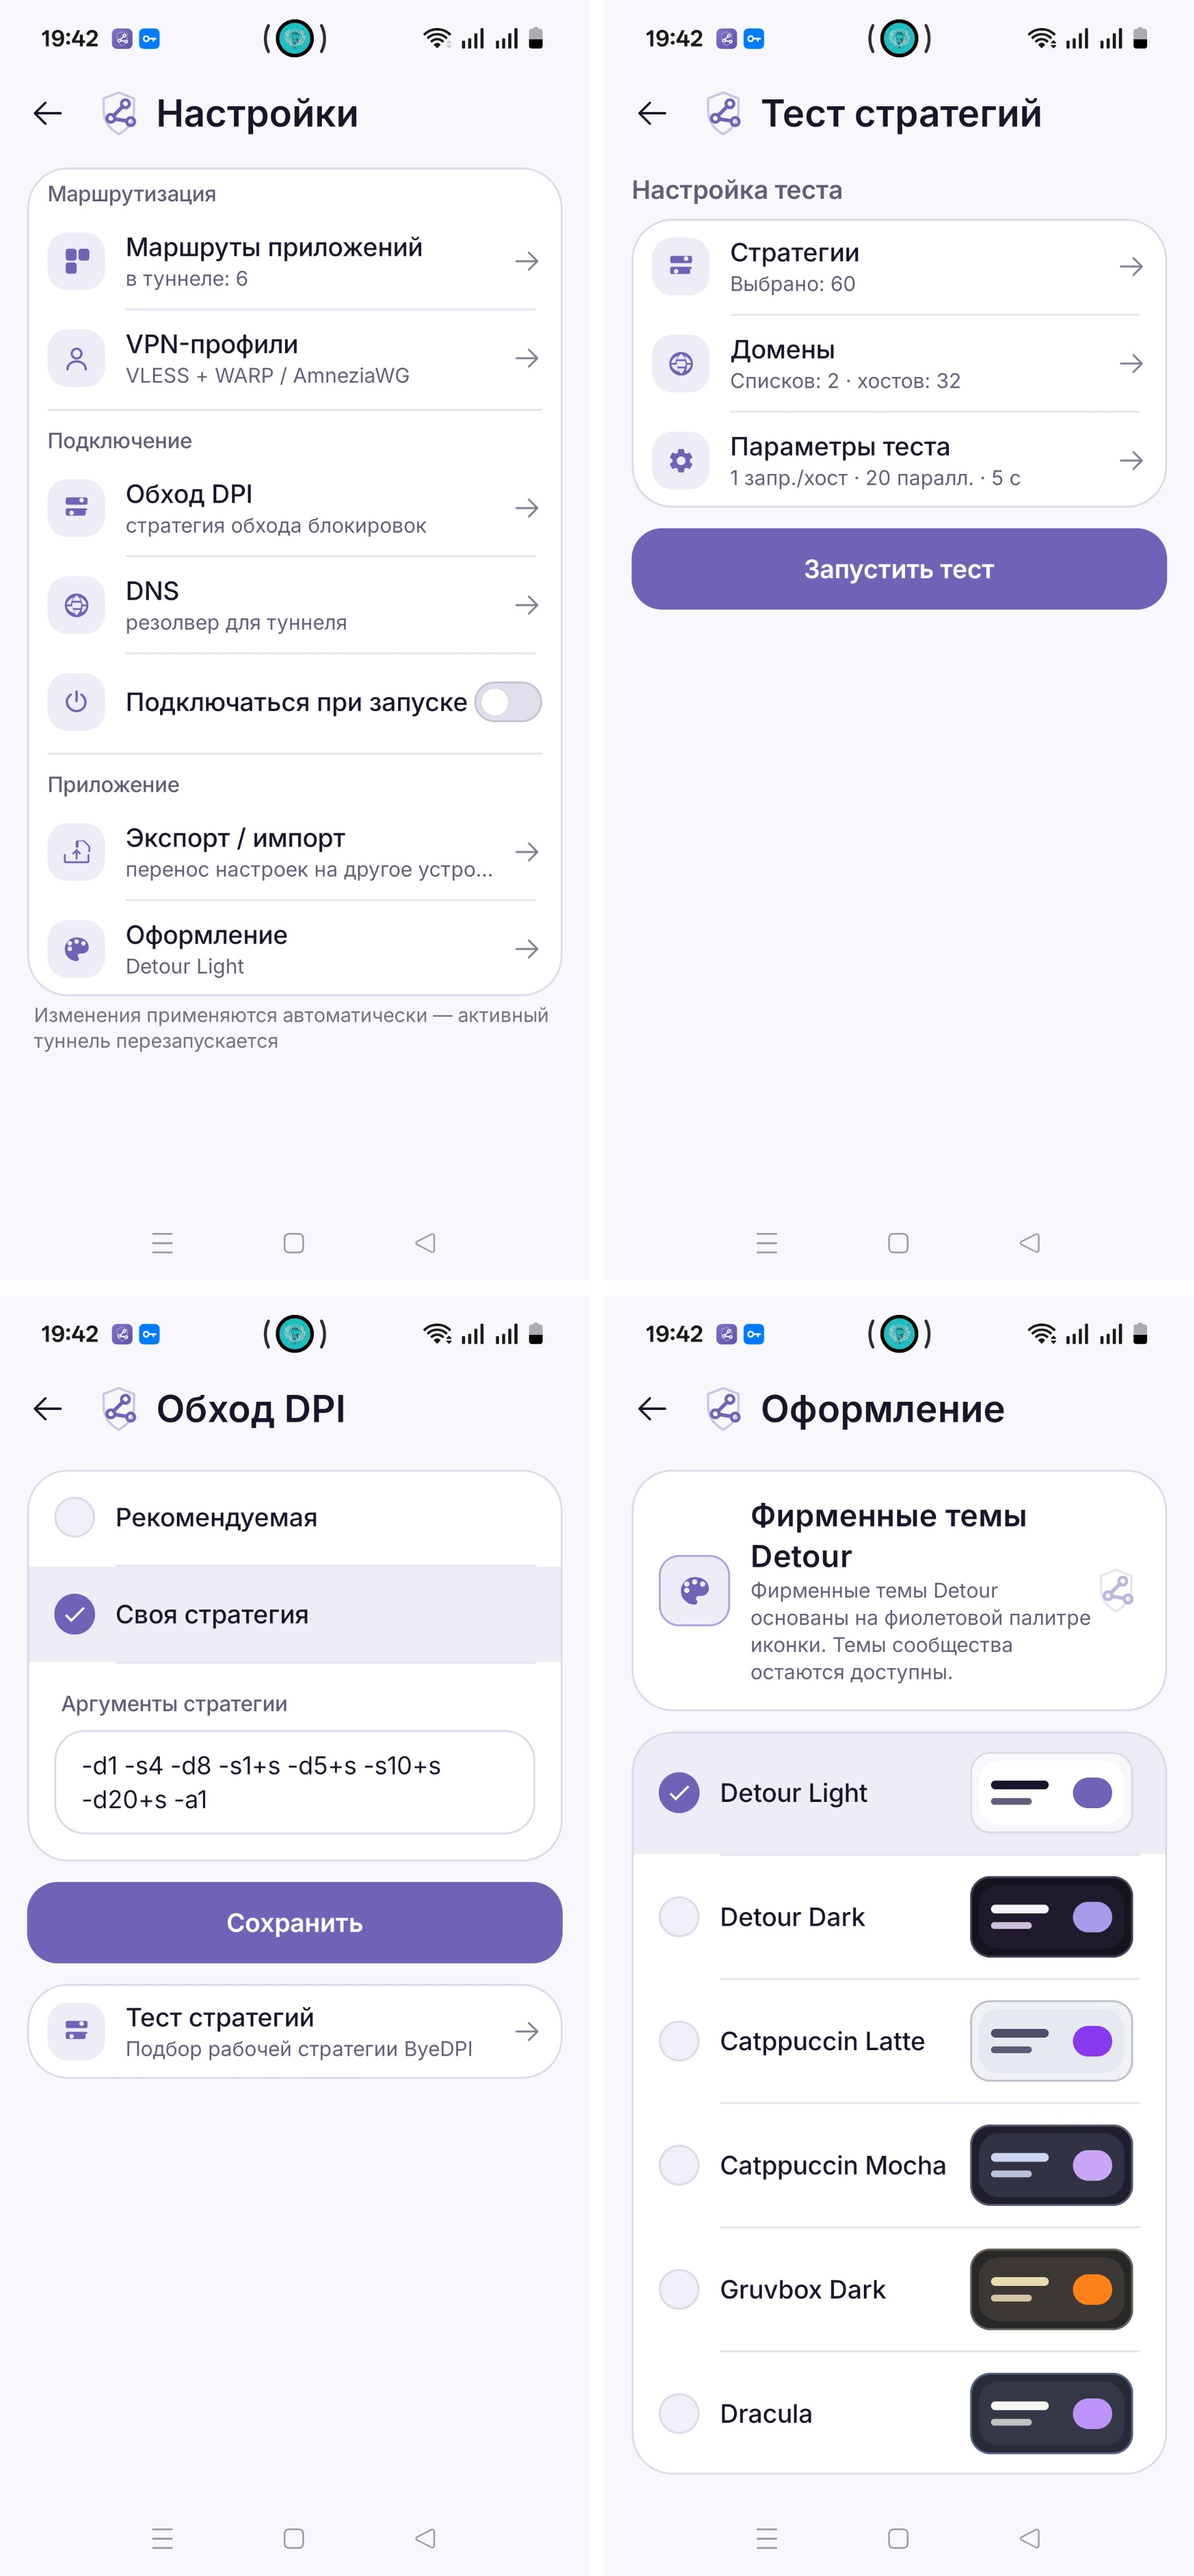
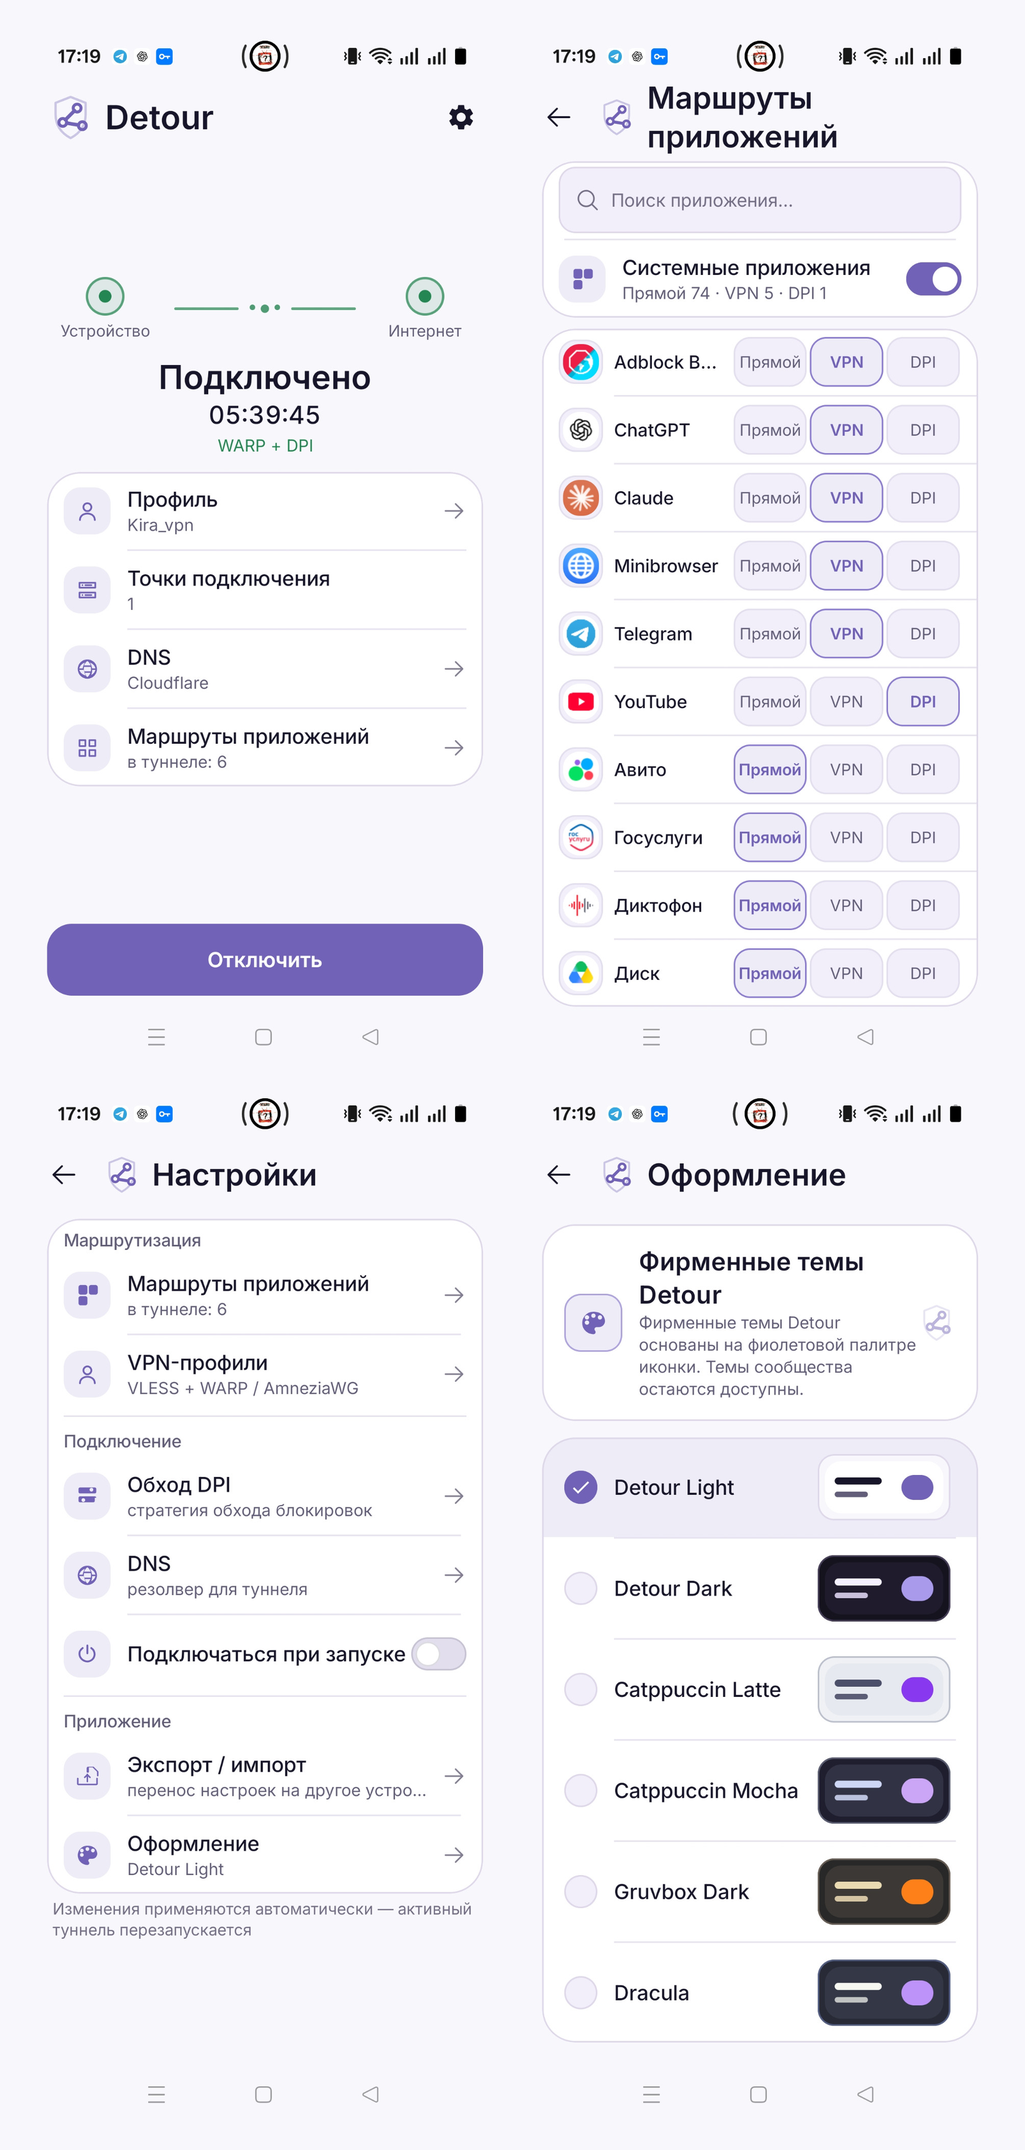
Show per-app routing in the product gallery
Promote the new four-screen real-device gallery to the README and Fastlane metadata, highlighting connected state, per-app Direct/VPN/DPI routing, settings and themes.

diff --git a/docs/screenshots.md b/docs/screenshots.md
@@ -4,12 +4,14 @@ The root README uses **real Detour captures from an Android device**. Product sc
 
 ## Current product gallery
 
-| File | What it shows |
-| --- | --- |
-| `settings.jpg` | Main settings and feature entry points |
-| `dns.jpg` | Tunnel DNS choices |
-| `dpi-bypass.jpg` | ByeDPI strategy configuration |
-| `appearance.jpg` | Detour and community theme choices |
+The primary README and Fastlane gallery is `product-gallery-hq.png`, a two-by-two montage assembled only from real device captures. It is ordered to explain the product from the main workflow outward:
+
+1. **Connected home** — active Detour tunnel and the main connection overview.
+2. **Per-app routes** — the core feature: different apps assigned to Direct, VPN or DPI routes.
+3. **Settings** — routing, VPN profiles, DPI bypass, DNS and application controls.
+4. **Themes** — Detour Light/Dark and the additional appearance choices.
+
+The existing individual captures such as `settings.jpg`, `dns.jpg`, `dpi-bypass.jpg` and `appearance.jpg` remain useful for feature documentation, but the landing-page gallery should prioritize the connected state and per-app routing.
 
 These are optimized copies of real device screenshots supplied for the project. They are not generated or reconstructed product mockups.
 
@@ -23,7 +25,7 @@ Public screenshots must not expose:
 - exported backup contents or personal notification content;
 - personal app inventory when it is not required to demonstrate a feature.
 
-For future screenshots of VPN profiles, subscriptions, servers or per-app routing, populate the **real app** with clearly synthetic demo data first, then capture the rendered UI. Do not redraw or fabricate the interface after capture.
+For screenshots of VPN profiles, subscriptions, servers or per-app routing, populate the **real app** with clearly synthetic demo data where practical, then capture the rendered UI. Do not redraw or fabricate the interface after capture. App inventory may be visible when it is necessary to demonstrate per-app routing, but it must not reveal sensitive account or configuration data.
 
 ## Capture consistency
 
@@ -33,17 +35,21 @@ For future screenshots of VPN profiles, subscriptions, servers or per-app routin
 - Keep one language within a gallery set.
 - Crop only external framing; do not remove or alter app content to hide secrets.
 
-## README layout
+## README and Fastlane layout
 
-`README.md` and `README.ru.md` reference the same screenshot files. The landing page intentionally uses a simple two-by-two image layout instead of a fixed three-column table so GitHub mobile does not squeeze captions or alt text into narrow cells.
+`README.md` and `README.ru.md` reference the same `product-gallery-hq.png`. The landing page uses a single two-by-two montage so GitHub mobile does not squeeze four portrait screenshots into narrow columns.
 
-When replacing a screenshot, preserve the filename where possible. If a filename changes, update both READMEs in the same pull request.
+Fastlane `en-US` and `ru` phone screenshot metadata reuses the same lossless gallery image. This keeps the public store view aligned with the repository landing page and makes per-app routing visible in both places.
+
+When replacing the gallery, preserve the canonical `product-gallery-hq.png` filename where possible and update both README alt texts in the same pull request.
 
 ## Review checklist
 
 - [ ] Every image is a real Detour render.
-- [ ] No personal profile, subscription, endpoint, credential or app-inventory data is visible.
+- [ ] The gallery visibly demonstrates per-app Direct / VPN / DPI routing.
+- [ ] No personal profile, subscription, endpoint or credential data is visible.
+- [ ] Any visible app inventory is appropriate for demonstrating the routing feature.
 - [ ] The image file opens as a valid JPEG/PNG from the repository.
-- [ ] Alt text describes the represented feature.
-- [ ] Both language READMEs reference files that exist.
+- [ ] Alt text describes the represented features.
+- [ ] README and Fastlane references point to files that exist.
 - [ ] Screens still match the current release UI.

diff --git a/README.ru.md b/README.ru.md
@@ -23,7 +23,7 @@ Open-source клиент для Android, в котором можно выбра
 </div>
 
 <p align="center">
-  <img src="docs/assets/screenshots/product-gallery-hq.png" width="820" alt="Detour: настройки, тест стратегий ByeDPI, обход DPI и темы оформления">
+  <img src="docs/assets/screenshots/product-gallery-hq.png" width="820" alt="Detour: подключение, маршруты приложений Прямой/VPN/DPI, настройки и темы оформления">
 </p>
 
 ## Один туннель. Три маршрута.

diff --git a/README.md b/README.md
@@ -23,7 +23,7 @@ Keep selected apps direct, route others through VPN, and use ByeDPI only where n
 </div>
 
 <p align="center">
-  <img src="docs/assets/screenshots/product-gallery-hq.png" width="820" alt="Detour product screens: settings, ByeDPI strategy test, DPI bypass and themes">
+  <img src="docs/assets/screenshots/product-gallery-hq.png" width="820" alt="Detour product screens: connected home, per-app Direct/VPN/DPI routing, settings and themes">
 </p>
 
 ## One tunnel. Three routes.
